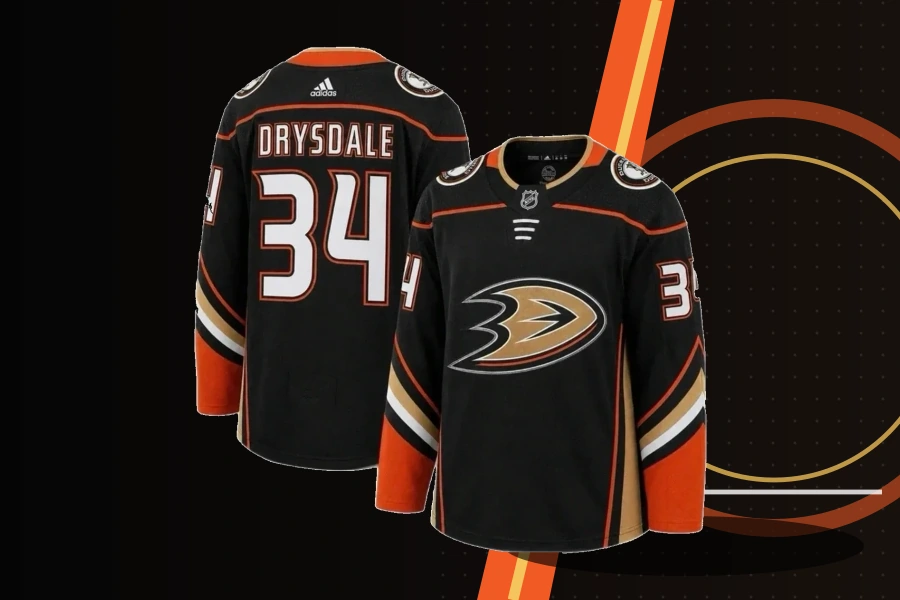
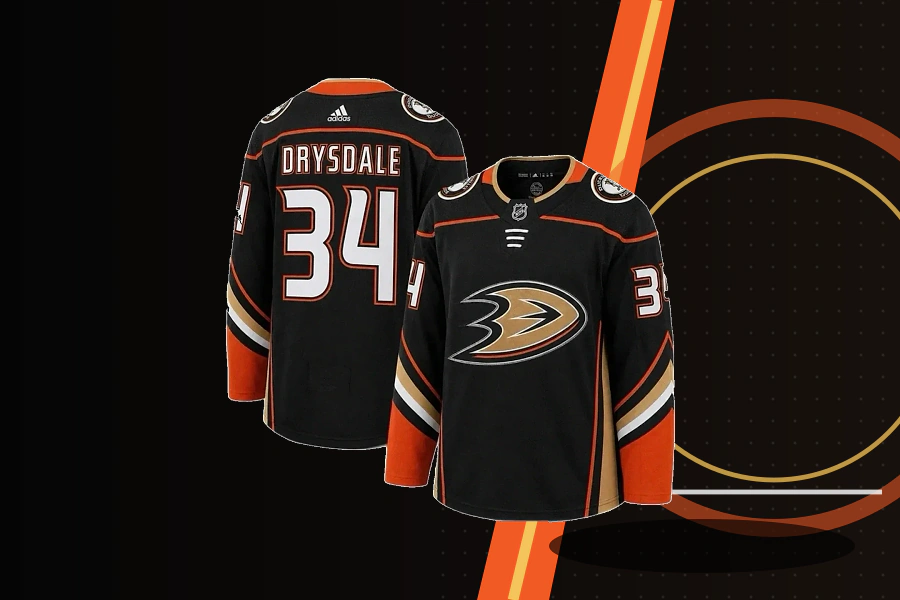
Refine carousel product image sizing

Changed region(s): [[0.2178, 0.06, 0.8711, 0.96], [0.8711, 0.87, 0.9333, 0.9], [0.28, 0.75, 0.3422, 0.78]]

diff --git a/index.html b/index.html
@@ -45,7 +45,7 @@
               <a class="btn btn-acid" href="products/liquid-death-x-pop-tarts-carnage-407039382525.html">Shop the $13.50 six-pack</a>
             </div>
             <a class="campaign-visual" href="products/liquid-death-x-pop-tarts-carnage-407039382525.html" aria-label="View Liquid Death x Pop-Tarts Carnage">
-              <picture><source media="(max-width: 700px)" srcset="assets/images/campaign/scenes/liquid-mobile.webp?v=3"><img class="campaign-media" src="assets/images/campaign/scenes/liquid-desktop.webp?v=3" alt="Liquid Death x Pop-Tarts Carnage six-pack in a cobalt and strawberry-red campaign" width="1840" height="720" fetchpriority="high"></picture>
+              <picture><source media="(max-width: 700px)" srcset="assets/images/campaign/scenes/liquid-mobile.webp?v=4"><img class="campaign-media" src="assets/images/campaign/scenes/liquid-desktop.webp?v=4" alt="Liquid Death x Pop-Tarts Carnage six-pack in a cobalt and strawberry-red campaign" width="1840" height="720" fetchpriority="high"></picture>
             </a>
           </div>
         </article>
@@ -58,7 +58,7 @@
               <a class="btn btn-acid" href="products/anaheim-ducks-drysdale-jersey-407176877843.html">Shop the $86.84 jersey</a>
             </div>
             <a class="campaign-visual" href="products/anaheim-ducks-drysdale-jersey-407176877843.html" aria-label="View the Anaheim Ducks Drysdale jersey">
-              <picture><source media="(max-width: 700px)" srcset="assets/images/campaign/scenes/jersey-mobile.webp?v=3"><img class="campaign-media" src="assets/images/campaign/scenes/jersey-desktop.webp?v=3" alt="Anaheim Ducks Drysdale jersey in a black and orange campaign" width="1840" height="720" loading="lazy"></picture>
+              <picture><source media="(max-width: 700px)" srcset="assets/images/campaign/scenes/jersey-mobile.webp?v=4"><img class="campaign-media" src="assets/images/campaign/scenes/jersey-desktop.webp?v=4" alt="Anaheim Ducks Drysdale jersey in a black and orange campaign" width="1840" height="720" loading="lazy"></picture>
             </a>
           </div>
         </article>
@@ -71,7 +71,7 @@
               <a class="btn btn-acid" href="products/pokemon-destined-rivals-4-pack-lot-407134944288.html">Claim a $31.84 four-pack</a>
             </div>
             <a class="campaign-visual" href="products/pokemon-destined-rivals-4-pack-lot-407134944288.html" aria-label="View the Pokemon Destined Rivals four-pack lot">
-              <picture><source media="(max-width: 700px)" srcset="assets/images/campaign/scenes/pokemon-mobile.webp?v=3"><img class="campaign-media" src="assets/images/campaign/scenes/pokemon-desktop.webp?v=3" alt="Four Pokemon Destined Rivals booster packs in a crimson collector campaign" width="1840" height="720" loading="lazy"></picture>
+              <picture><source media="(max-width: 700px)" srcset="assets/images/campaign/scenes/pokemon-mobile.webp?v=4"><img class="campaign-media" src="assets/images/campaign/scenes/pokemon-desktop.webp?v=4" alt="Four Pokemon Destined Rivals booster packs in a crimson collector campaign" width="1840" height="720" loading="lazy"></picture>
             </a>
           </div>
         </article>
@@ -84,7 +84,7 @@
               <a class="btn btn-acid" href="products/red-bull-blue-edition-blueberry-4-pack-407203102419.html">Shop the $48.24 four-pack</a>
             </div>
             <a class="campaign-visual" href="products/red-bull-blue-edition-blueberry-4-pack-407203102419.html" aria-label="View the Red Bull Blue Edition Blueberry four-pack">
-              <picture><source media="(max-width: 700px)" srcset="assets/images/campaign/scenes/redbull-mobile.webp?v=3"><img class="campaign-media" src="assets/images/campaign/scenes/redbull-desktop.webp?v=3" alt="Four Red Bull Blue Edition Blueberry cans in an electric-blue campaign" width="1840" height="720" loading="lazy"></picture>
+              <picture><source media="(max-width: 700px)" srcset="assets/images/campaign/scenes/redbull-mobile.webp?v=4"><img class="campaign-media" src="assets/images/campaign/scenes/redbull-desktop.webp?v=4" alt="Four Red Bull Blue Edition Blueberry cans in an electric-blue campaign" width="1840" height="720" loading="lazy"></picture>
             </a>
           </div>
         </article>
